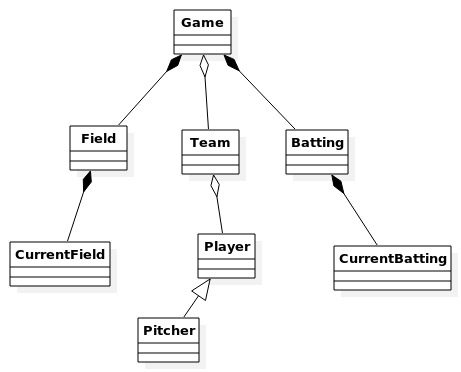
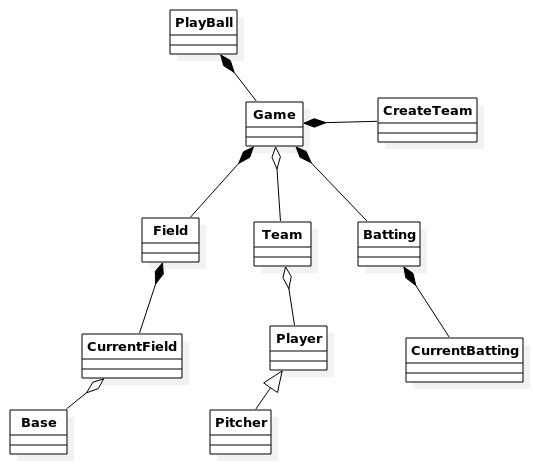
v .40, can simulate game

diff --git a/src/Game.java b/src/Game.java
@@ -1,45 +1,94 @@
 
 public class Game {
 	
-public static void main(String[] args){
+private CreateTeam ct;
+public Team[] teams;
+private Batting bat;
+private CurrentField cf;
+private Field f;
 
-Team a = new Team();
-Team b = new Team();
+private int amountOfBasesToMove;
+private Player currentBattingPlayer;
 
-//Player and team creation needs to be handled by another class linked to database
-Player p = new Player(.4f, "Bob");
-Player p2 = new Player(.3f, "Phil");
-Pitcher p3 = new Pitcher(.3f, "pitcher", 1);
-Player p4 = new Player(.25f, "Mack");
-a.addPlayer(p);
-a.addPlayer(p2);
-b.addPlayer(p3);
-a.addPlayer(p4);
+private int battingTeam;
+private int pitchingTeam;
+private boolean initOrder;
 
-Batting bat = new Batting();
+private int innings;
+	
+public Game(){
+	ct = new CreateTeam();
+	teams = ct.createTeams();
+	bat = new Batting();
+	cf = new CurrentField();
+	f = new Field(cf);
 
-//Every time a team switches from batting to fielding a new current batting needs
-//to be made
-CurrentBatting cb = new CurrentBatting(p3,p);
-CurrentBatting cb1 = new CurrentBatting(p3,p2);
-CurrentBatting cb2 = new CurrentBatting(p3,p4);
+	amountOfBasesToMove = 0;
+	currentBattingPlayer = null;
+	
+	battingTeam = 0;
+	pitchingTeam = 1;
+	initOrder = true;
+	
+	innings = 1;
+}
 
-CurrentField cf = new CurrentField();
-Field f = new Field(cf);
+public void switchTeams(){
+	if(initOrder == true){
+		battingTeam = 1;
+		pitchingTeam = 0;
+		initOrder = false;
+	}
+	else{
+		battingTeam = 0;
+		pitchingTeam = 1;
+		initOrder = true;
+	}
+}
 
-bat.startBatting(cb);
-f.newPlayerOnBases(bat.atBat(), bat.getBatter());
-System.out.println(cf);
+public void teamAtBat(){
+while(teams[battingTeam].getOuts() < 3){
+	currentBattingPlayer = teams[battingTeam].getNextPlayerAtBat();
+	CurrentBatting cb = new CurrentBatting(teams[pitchingTeam].getPitcher(), currentBattingPlayer );
+	amountOfBasesToMove = bat.startBatting(cb);
+	
+	if(amountOfBasesToMove > 0 ){
+		f.newPlayerOnBases(amountOfBasesToMove, currentBattingPlayer);
+		}
+	
+	else{
+		teams[battingTeam].addOneToOuts();
+		System.out.println("OUT HAS HAPPENED");
+			}
+	}
+	teams[battingTeam].addNumToScore(cf.getScore());
+	teams[battingTeam].setOutsToZero();
+	cf.reset();
+}
 
-bat.startBatting(cb1);
-f.newPlayerOnBases(bat.atBat(), bat.getBatter());
-System.out.println(cf);
+public void inning(){
+	teamAtBat();
+	System.out.println("NEW TEAM AT BAT");
+	System.out.println();
+	switchTeams();
+	teamAtBat();
+	switchTeams();
+	System.out.println("NEW TEAM AT BAT");
+	System.out.println();
+	innings++;
+}
 
-bat.startBatting(cb2);
-f.newPlayerOnBases(bat.atBat(), bat.getBatter());
-System.out.println(cf);
-
-System.out.println("the three batters scored " + cf.getScore());
+public void playGame(){
+while(innings < 9){
+	inning();
+	System.out.println("score at end of inning " + innings + " is: " +"\n"
+	+"Home Team: "+ teams[0].getScore() +"\n"+ "Away Team: "+ teams[1].getScore());
+}
+while(teams[0].getScore() == teams[1].getScore()){
+	inning();
+	System.out.println("score at end of inning " + innings + " is: " +"\n"
+	+"Home Team: "+ teams[0].getScore() +"\n" + "Away Team: "+ teams[1].getScore());
+}
 
 }
 }

diff --git a/src/CreateTeam.java b/src/CreateTeam.java
@@ -1,0 +1,53 @@
+
+public class CreateTeam {
+
+private Team home = new Team();
+private Team away = new Team();
+
+public Team[] createTeams(){
+	Player p1 = new Player(.4f, "Bob");
+	Player p2 = new Player(.3f, "Phil");
+	Player p3 = new Player(.25f, "Mack");
+	Player p4 = new Player(.32f, "Tango Tom");
+	Player p5 = new Player(.41f, "Joe");
+	Player p6 = new Player(.2f, "Billy");
+	Player p7 = new Player(.36f, "John");
+	Player p8 = new Player(.29f, "Josh");
+	Pitcher pitcherA = new Pitcher(.1f, "pitcherA", 1);
+	home.addPlayer(p1);
+	home.addPlayer(p2);
+	home.addPlayer(p3);
+	home.addPlayer(p4);
+	home.addPlayer(p5);
+	home.addPlayer(p6);
+	home.addPlayer(p7);
+	home.addPlayer(p8);
+	home.addPlayer(pitcherA);
+
+	Player p1b = new Player(.4f, "Bob");
+	Player p2b = new Player(.3f, "Phil");
+	Player p3b = new Player(.25f, "Mack");
+	Player p4b = new Player(.32f, "Tango Tom");
+	Player p5b = new Player(.41f, "Joe");
+	Player p6b = new Player(.2f, "Billy");
+	Player p7b = new Player(.36f, "John");
+	Player p8b = new Player(.29f, "Josh");
+	Pitcher pitcherB = new Pitcher(.1f, "pitcherA", 1);
+	away.addPlayer(p1b);
+	away.addPlayer(p2b);
+	away.addPlayer(p3b);
+	away.addPlayer(p4b);
+	away.addPlayer(p5b);
+	away.addPlayer(p6b);
+	away.addPlayer(p7b);
+	away.addPlayer(p8b);
+	away.addPlayer(pitcherB);
+	
+	Team[] teams = {home, away};
+	
+	return teams;
+	
+}
+
+
+}

diff --git a/src/Team.java b/src/Team.java
@@ -7,6 +7,33 @@ private int playerAtBat = -1;
 private ArrayList<Player> players = new ArrayList<Player>();
 private String teamName = "temp";
 
+private int score = 0;
+private int outs = 0;
+
+public void addOneToScore(){
+	score++;
+}
+
+public void addNumToScore(int n){
+	score = score + n;
+}
+
+public void addOneToOuts(){
+	outs++;
+}
+
+public void setOutsToZero(){
+	outs = 0;
+}
+
+public int getOuts(){
+	return outs;
+}
+
+public int getScore(){
+	return score;
+}
+
 public void addPlayer(Player p){
 	players.add(p);
 }
@@ -17,7 +44,11 @@ public Player getPlayer(int index){
 
 public Player getNextPlayerAtBat(){
 	playerAtBat++;
-	return players.get(playerAtBat % 9);
+	return players.get(playerAtBat % 7);
+}
+
+public Pitcher getPitcher(){
+	return (Pitcher) players.get(8);
 }
 
 }

diff --git a/src/Batting.java b/src/Batting.java
@@ -8,10 +8,11 @@ private int outcome;
 private int strikes;
 private int hit;
 
-public void startBatting (CurrentBatting cb){
+public int startBatting (CurrentBatting cb){
 	currentBatting = cb;
 	pitcher = cb.getPitcher();
 	player = cb.getPlayer();
+	return atBat();
 }
 
 public int atBat(){

diff --git a/src/CurrentField.java b/src/CurrentField.java
@@ -15,6 +15,16 @@ public CurrentField(){
 	three.setNextBase(home);
 }
 
+public void reset(){
+	score = 0;
+	outs = 0;
+	home.removePlayerFromBase();
+	one.removePlayerFromBase();
+	two.removePlayerFromBase();
+	three.removePlayerFromBase();
+}
+
+
 public int getScore() {
 	return score;
 }

diff --git a/src/PlayBall.java b/src/PlayBall.java
@@ -1,0 +1,12 @@
+
+public class PlayBall {
+
+public static void main(String[] args){
+	
+	Game g = new Game();
+	g.playGame();
+	
+	
+}
+
+}
